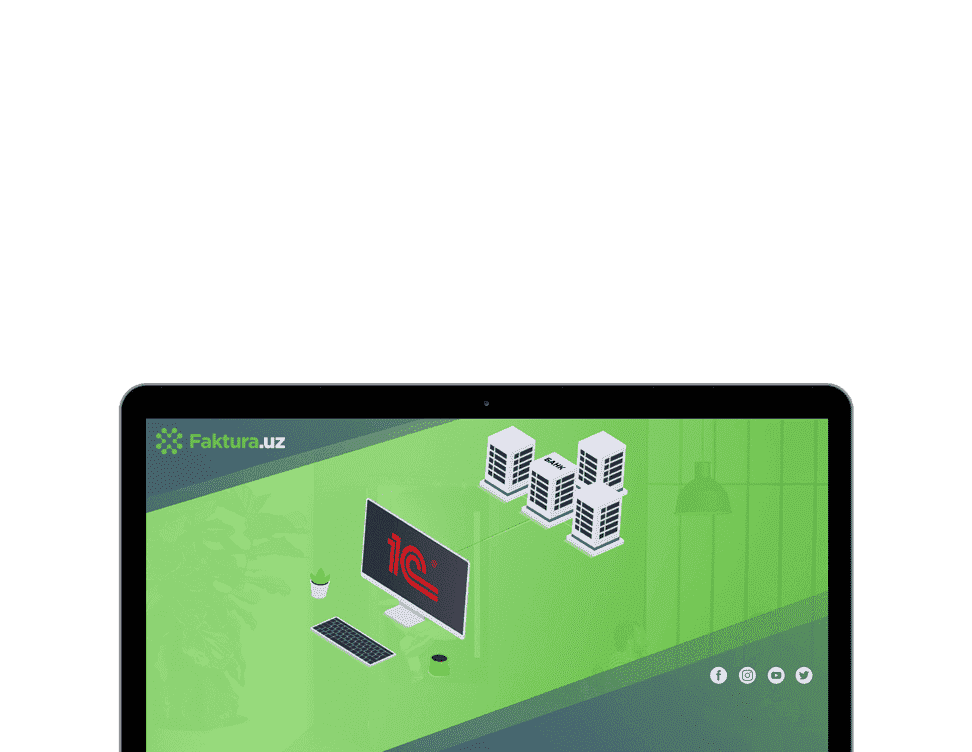
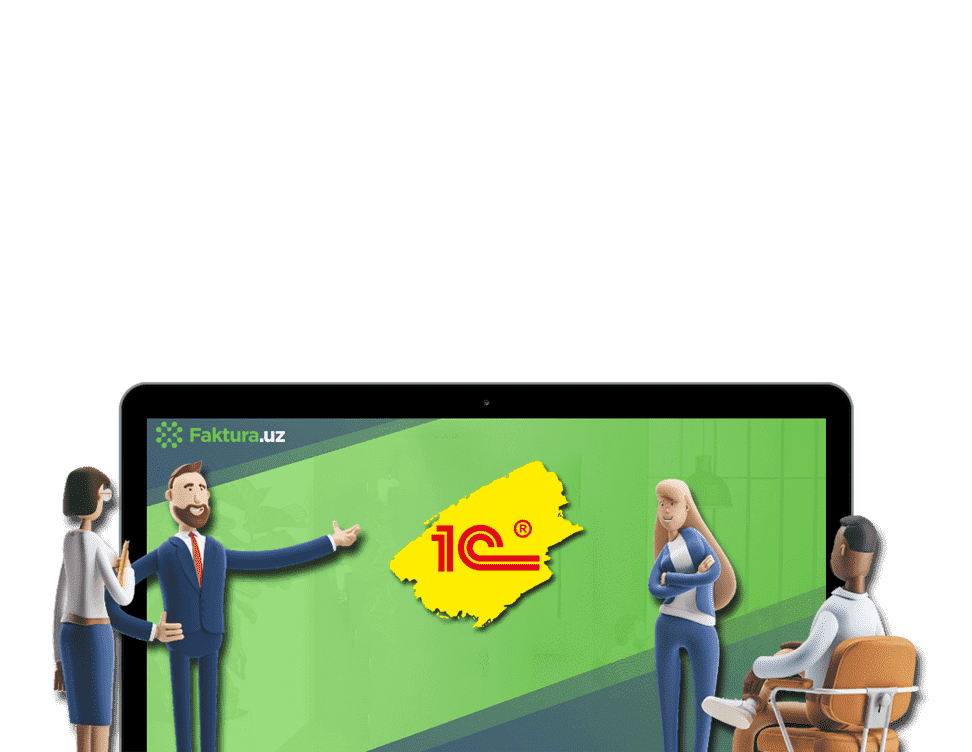
Slides Changed + added open graph codes

Changed region(s): [[0.0309, 0.5505, 0.9568, 1.0], [0.1235, 0.4894, 0.8642, 0.5199], [0.3704, 0.9481, 0.4938, 1.0]]

diff --git a/src/components/LandingPage.vue b/src/components/LandingPage.vue
@@ -19,10 +19,9 @@
                                     </ol>
                                     <div class="carousel-inner">
                                         <div class="carousel-item desktop-slide active">
-                                            <!-- <v-lazy-image srcset="./../assets/img/sldier/6666.png" src="" use-picture  class="desktop-slide" alt="...">
+                                            <v-lazy-image srcset="./../assets/img/sldier/6666.png" src="" use-picture  class="desktop-slide" alt="...">
                                                 <source srcset="./../assets/img/sldier/6666.png" /> 
-                                            </v-lazy-image> -->
-                                            <img src="./../assets/img/sldier/6666.png" alt="">
+                                            </v-lazy-image>
                                             <div class="carousel-caption d-block">
                                                 <h2 class="slide-desc-title">{{ translation.translate('landingPageHome', 'kpkTitle') }}</h2>
                                                 <p class="slide-desc-description mt-3">{{ translation.translate('landingPageHome', 'kpkDescript') }}</p>
@@ -1836,29 +1835,16 @@ export default {
             } else {
                 this.isScrolled = false;
             }
-        },
-        // loadvideoFromYouTube(number) {
-        //     if (number == 1) {
-        //         this.firstVideoLink = "https://www.youtube-nocookie.com/embed/zxz0LpOibbQ"
-        //         this.callGtag('Посмотреть анимацию,watch_animation,click')
-        //     } else if (number == 2) {
-        //         this.stepsForStarting = !this.stepsForStarting
-        //         this.secondVideoLink = "https://www.youtube-nocookie.com/embed/CjT3mqxBf_s"
-        //     } else if (number == 3) {
-        //         this.panelTutorialVideo = !this.panelTutorialVideo
-        //         this.secondVideoLink = "https://www.youtube-nocookie.com/embed/4MWjz2v84lU"
-        //     } else if (number == 4) {
-        //         this.gybridPochta = !this.gybridPochta
-        //         this.thirdVideoLink = "https://www.youtube-nocookie.com/embed/xcrJ_o4_nmc"
-        //     }
-        // }
+        }
     },
     metaInfo() {
         return { 
             title: "Электронный документооборот в Узбекистане - внедрение ЭДО",
             meta: [
+                { property: 'og:title', content:  'Faktura.uz'},
+                { property: 'og:description', content:  'Faktura — первый официальный оператор электронного документооборота в Узбекистане - Faktura.uz'},
                 { name: 'description', content:  'Ведение электронного документооборота(ЭДО) в Узбекистане.⏩  Faktura - программа электронного документооборота онлайн. ⏩  Адекватная цена. ☎: +998 (71) 200-00-13.'},
-                { name: 'keywords', content:  'faktura, faktura uz, soliq faktura, faktura soliq uz, e faktura, e faktura uz, soliq servis uz faktura, soliq servis faktura, faktura ru, e faktura soliq uz, e faktura soliq, soliq servis uz faktura ru, uzasbo faktura, soliqservis uz faktura, online faktura uz, my soliq, my soliq uz, soliq servis, soliq uz электронная, hisobot soliq uz, may soliq, may soliq uz, tasnif soliq uz, фактура, счет фактура, фактура уз, солик фактура, фактура узбекистана, счет фактура узбекистан, е фактура, фактура солик уз, электронный фактура, электронные счета фактуры, солик сервис уз фактура, сервис фактура, выставить фактуру'},
+                { name: 'keywords', content:  'faktura, faktura uz, soliq faktura, faktura soliq uz, e faktura, e faktura uz, soliq servis uz faktura, soliq servis faktura, faktura ru, e faktura soliq uz, e faktura soliq, soliq servis uz faktura ru, uzasbo faktura, soliqservis uz faktura, online faktura uz, my soliq, my soliq uz, soliq servis, soliq uz электронная, hisobot soliq uz, may soliq, may soliq uz, tasnif soliq uz, фактура, счет фактура, фактура уз, солик фактура, фактура узбекистана, счет фактура узбекистан, е фактура, фактура солик уз, электронный фактура, электронные счета фактуры, солик сервис уз фактура, сервис фактура, выставить фактуру'}
             ]
         }
     },
